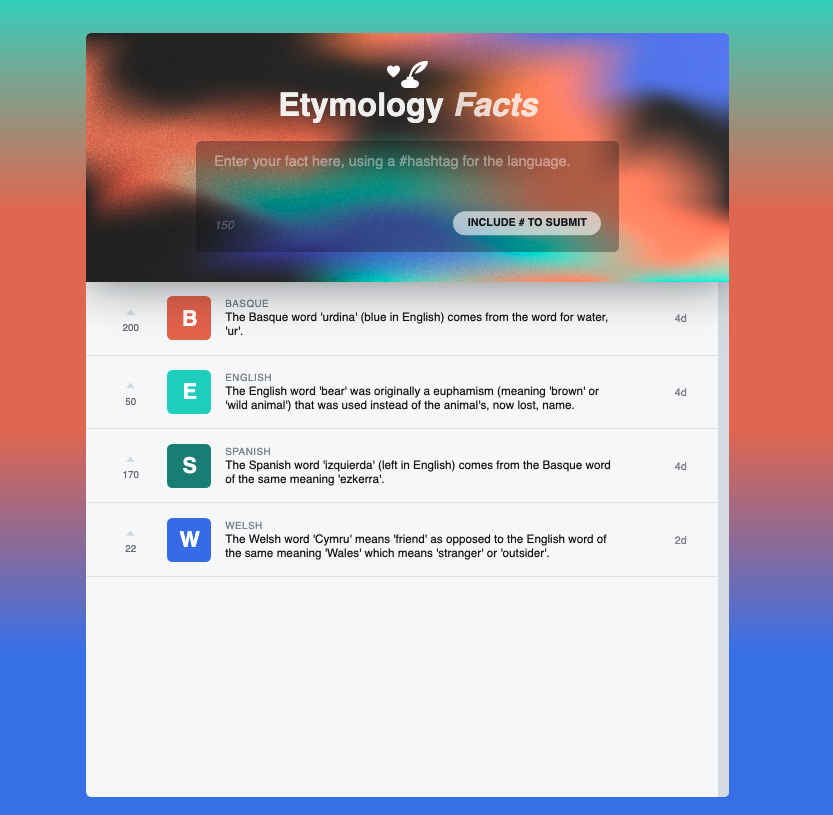
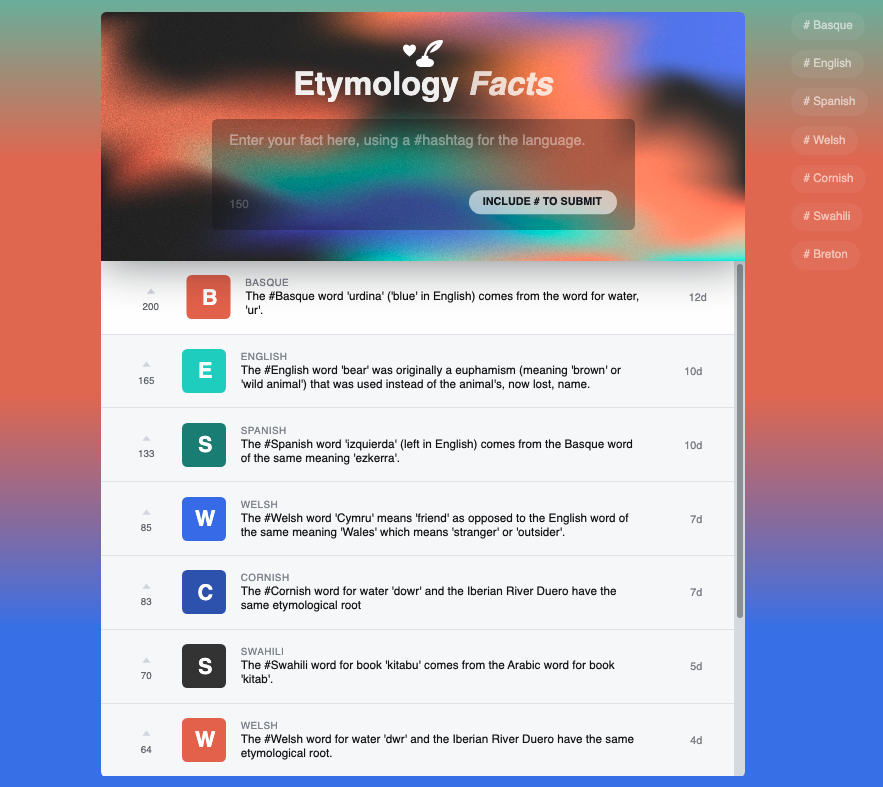
README update, image added

diff --git a/README.md b/README.md
@@ -1,10 +1,12 @@
 ## Goal
 
 To create a message board where you can post etymology facts, using a hashtag system that will allow you to filter your facts by language.
+You can add a comment and you can 'upvote' any comment (currently no local storage or database has been added for persisting data).
 
 ## Build
 
-This was built using React and TypeScript, making use of Radix-UI for the upvote button.
+This was built using React and TypeScript.
+Initially I implemented useContext and as it was a small project this would have been sufficient, however I decided to add Zustand just for fun. 
 
 ## Screenshots
 
@@ -17,6 +19,7 @@ This was built using React and TypeScript, making use of Radix-UI for the upvote
 - JavaScript
 - TypeScript
 - React
+- Zustand
 - HTML
 - CSS
 - Radix-UI
@@ -36,5 +39,5 @@ Currently the upvote feature is only a visual feature. I would like to implement
 ## Accreditations
 
 - ByteGrad: for the teaching resources and CSS styling.
-- Flaticon.com : for the icons
-- Freepik.com : for the 'texture' background used in the header.
+- Flaticon.com: for the icons
+- Freepik.com: for the 'texture' background used in the header.
